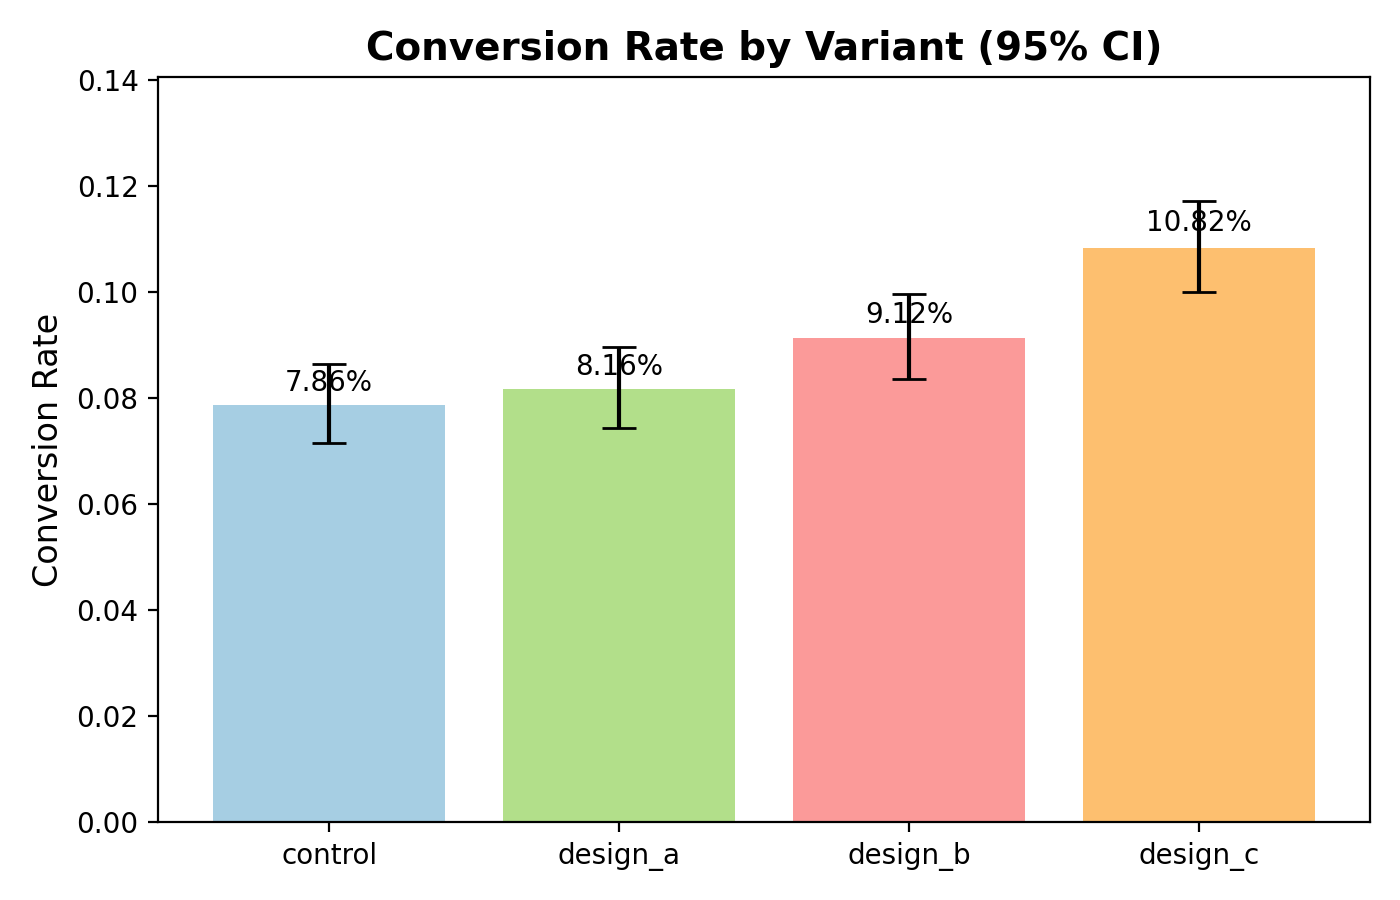
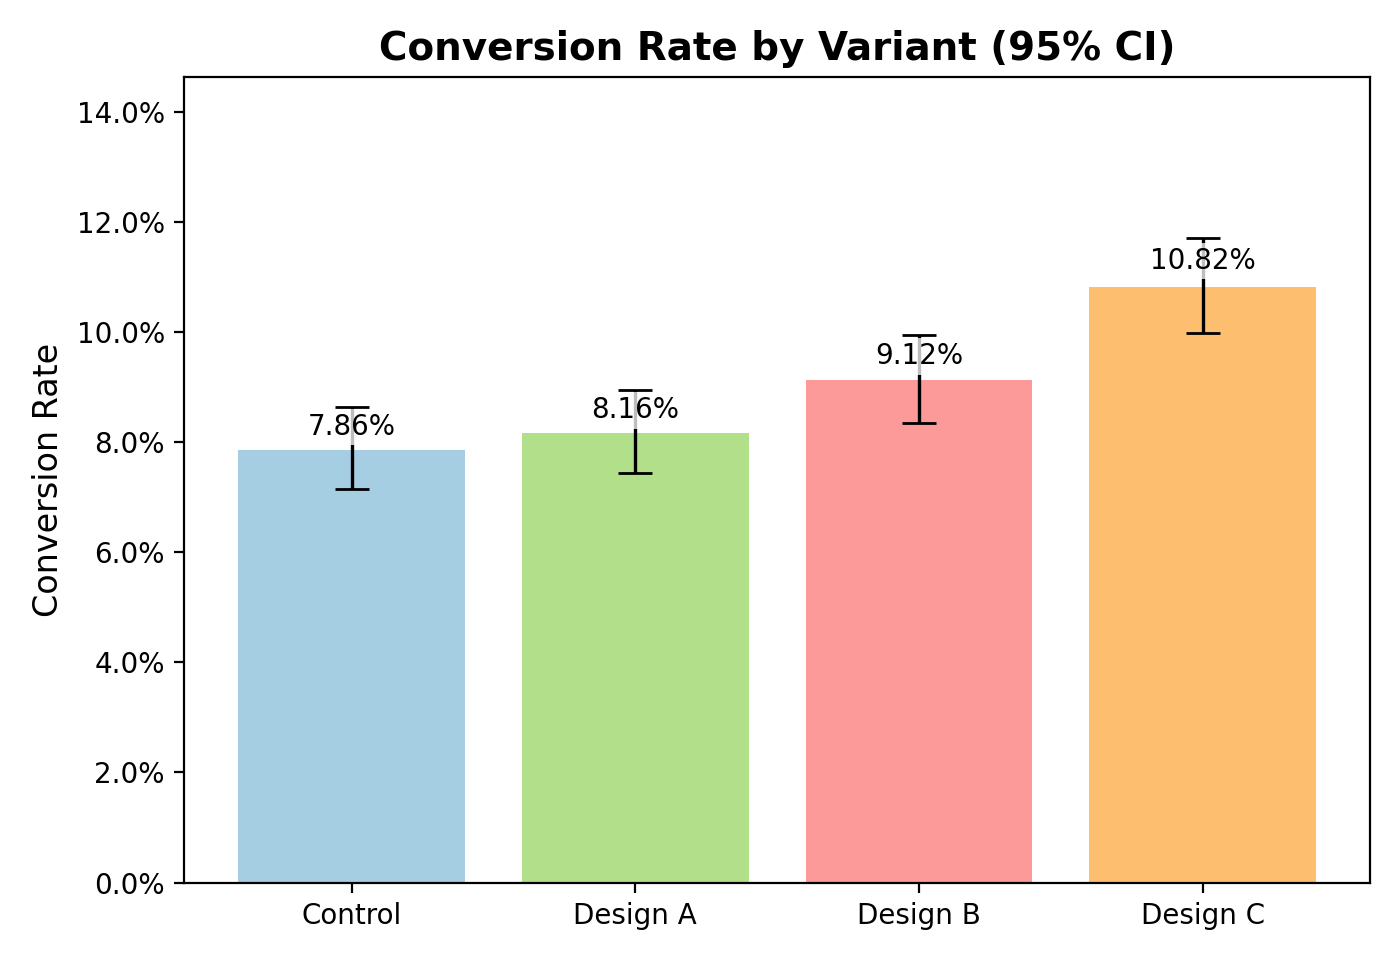
Add files via upload

Changed region(s): [[0.0, 0.2178, 0.9829, 0.9644], [0.0614, 0.0311, 0.9829, 0.1556], [0.0614, 0.1867, 0.1536, 0.2489]]

diff --git a/executive_summary.md b/executive_summary.md
@@ -1,10 +1,10 @@
 ## Executive Summary
 
-- **Winner:** `design_c`
+- **Winner:** `Design C`
 - **Observed conversion:** 10.82% (Control: 7.86%)
 - **Relative lift vs Control:** **37.7%**
 - **Multiplicity-adjusted p-value (Bonferroni):** 2.19e-06
 
-**Recommendation:** Ship **design_c** to 100%,  
-monitor guardrails (latency, crash rate, uninstall rate),  
+**Recommendation:** Ship **Design C** to 100%,
+monitor guardrails (latency, crash rate, uninstall rate),
 and run a **post-rollout holdback** to validate long-term impact.
